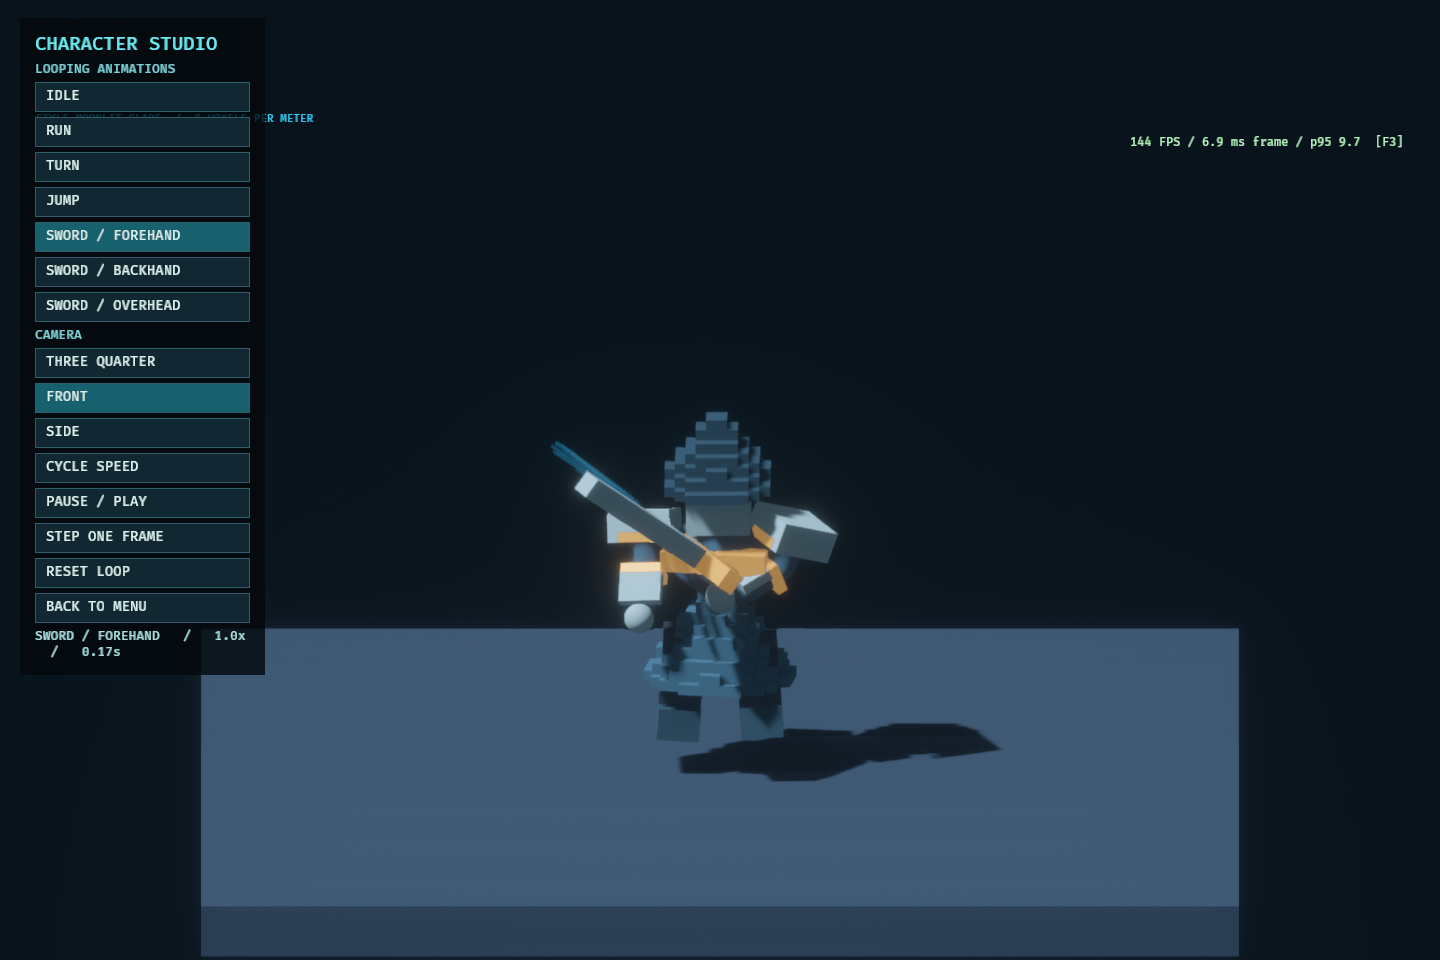
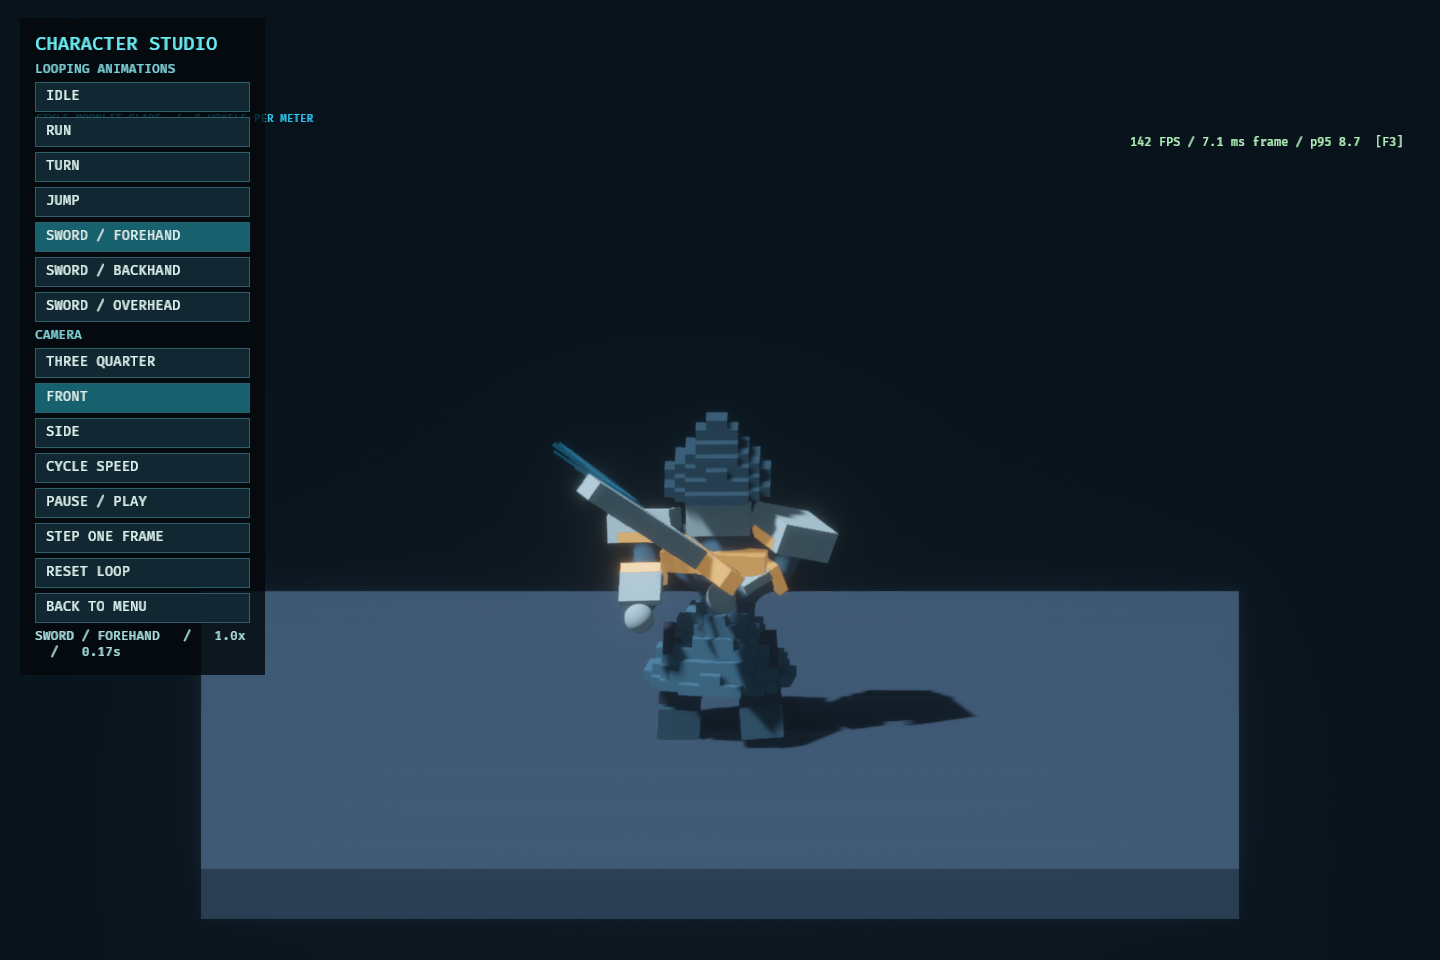
Add articulated animation, jump, sword combos, and character studio

diff --git a/kestrel/app/src/viewer.rs b/kestrel/app/src/viewer.rs
@@ -14,6 +14,11 @@ use bevy::{
 };
 use sim::settlement::avatar::SwordStroke;
 
+// Rig roots use y=0 as their standing surface. Keep the inspection floor and
+// root on the same plane so poses can be judged against actual foot contact.
+const STUDIO_FLOOR_Y: f32 = 20.0;
+const STUDIO_FLOOR_THICKNESS: f32 = 0.2;
+
 #[derive(Clone, Copy, Debug, Default, PartialEq, Eq)]
 pub enum Clip {
     Idle,
@@ -187,13 +192,13 @@ pub fn setup(
     }
     commands.spawn((
         Stage,
-        Mesh3d(meshes.add(Cuboid::new(4.0, 0.2, 4.0))),
+        Mesh3d(meshes.add(Cuboid::new(4.0, STUDIO_FLOOR_THICKNESS, 4.0))),
         MeshMaterial3d(materials.add(StandardMaterial {
             base_color: Color::srgb(0.09, 0.17, 0.21),
             perceptual_roughness: 0.95,
             ..default()
         })),
-        Transform::from_xyz(0.0, 19.75, 0.0),
+        Transform::from_xyz(0.0, STUDIO_FLOOR_Y - STUDIO_FLOOR_THICKNESS * 0.5, 0.0),
     ));
     commands
         .spawn((
@@ -349,7 +354,7 @@ pub fn drive(
         viewer.elapsed += time.delta_secs().min(0.05) * viewer.speed;
     }
     let t = viewer.phase();
-    let spawn = Vec3::new(0.0, 20.0, 0.0);
+    let spawn = Vec3::new(0.0, STUDIO_FLOOR_Y, 0.0);
     let (_, height) = viewer.jump();
     player.translation = spawn + Vec3::Y * height;
     player.rotation = Quat::from_rotation_y(if viewer.clip == Clip::Turn {
@@ -381,7 +386,7 @@ pub fn camera(
     if !viewer.active {
         return;
     }
-    let center = Vec3::new(0.0, 21.0, 0.0);
+    let center = Vec3::new(0.0, STUDIO_FLOOR_Y + 1.0, 0.0);
     let offset = match viewer.angle {
         ViewAngle::ThreeQuarter => Vec3::new(3.0, 2.2, 4.4),
         ViewAngle::Front => Vec3::new(0.0, 1.5, 5.4),
